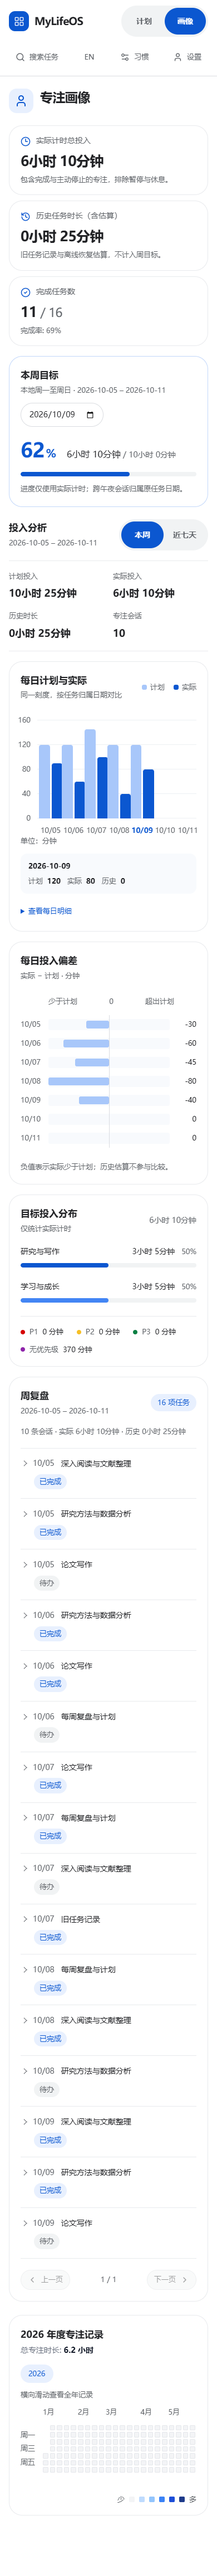
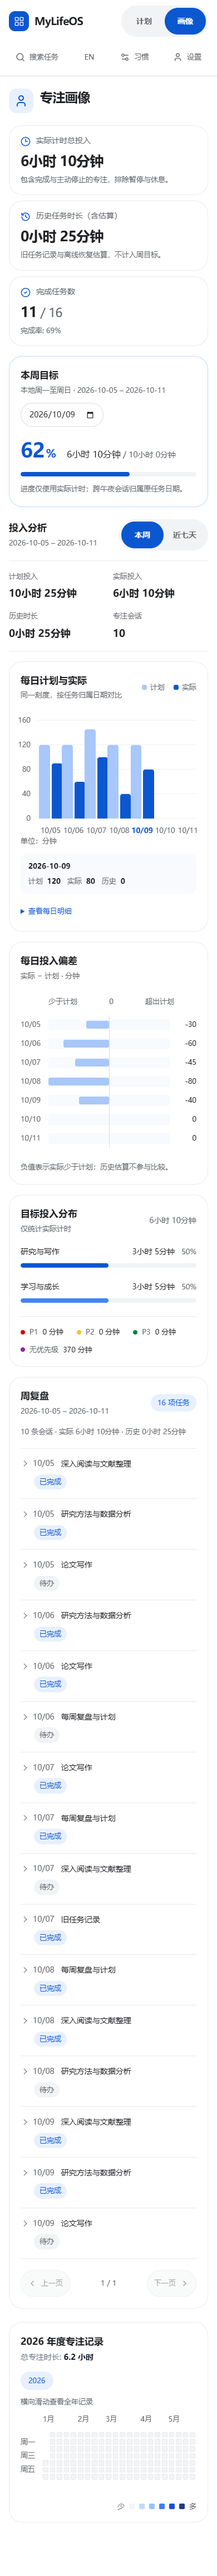
fix(profile): preserve touch pagination targets and validation evidence

diff --git a/src/profile.css b/src/profile.css
@@ -790,3 +790,8 @@
     align-self: flex-start;
   }
 }
+@media (max-width: 767px) {
+  .profile-pagination .motion-button {
+    min-height: 48px;
+  }
+}
